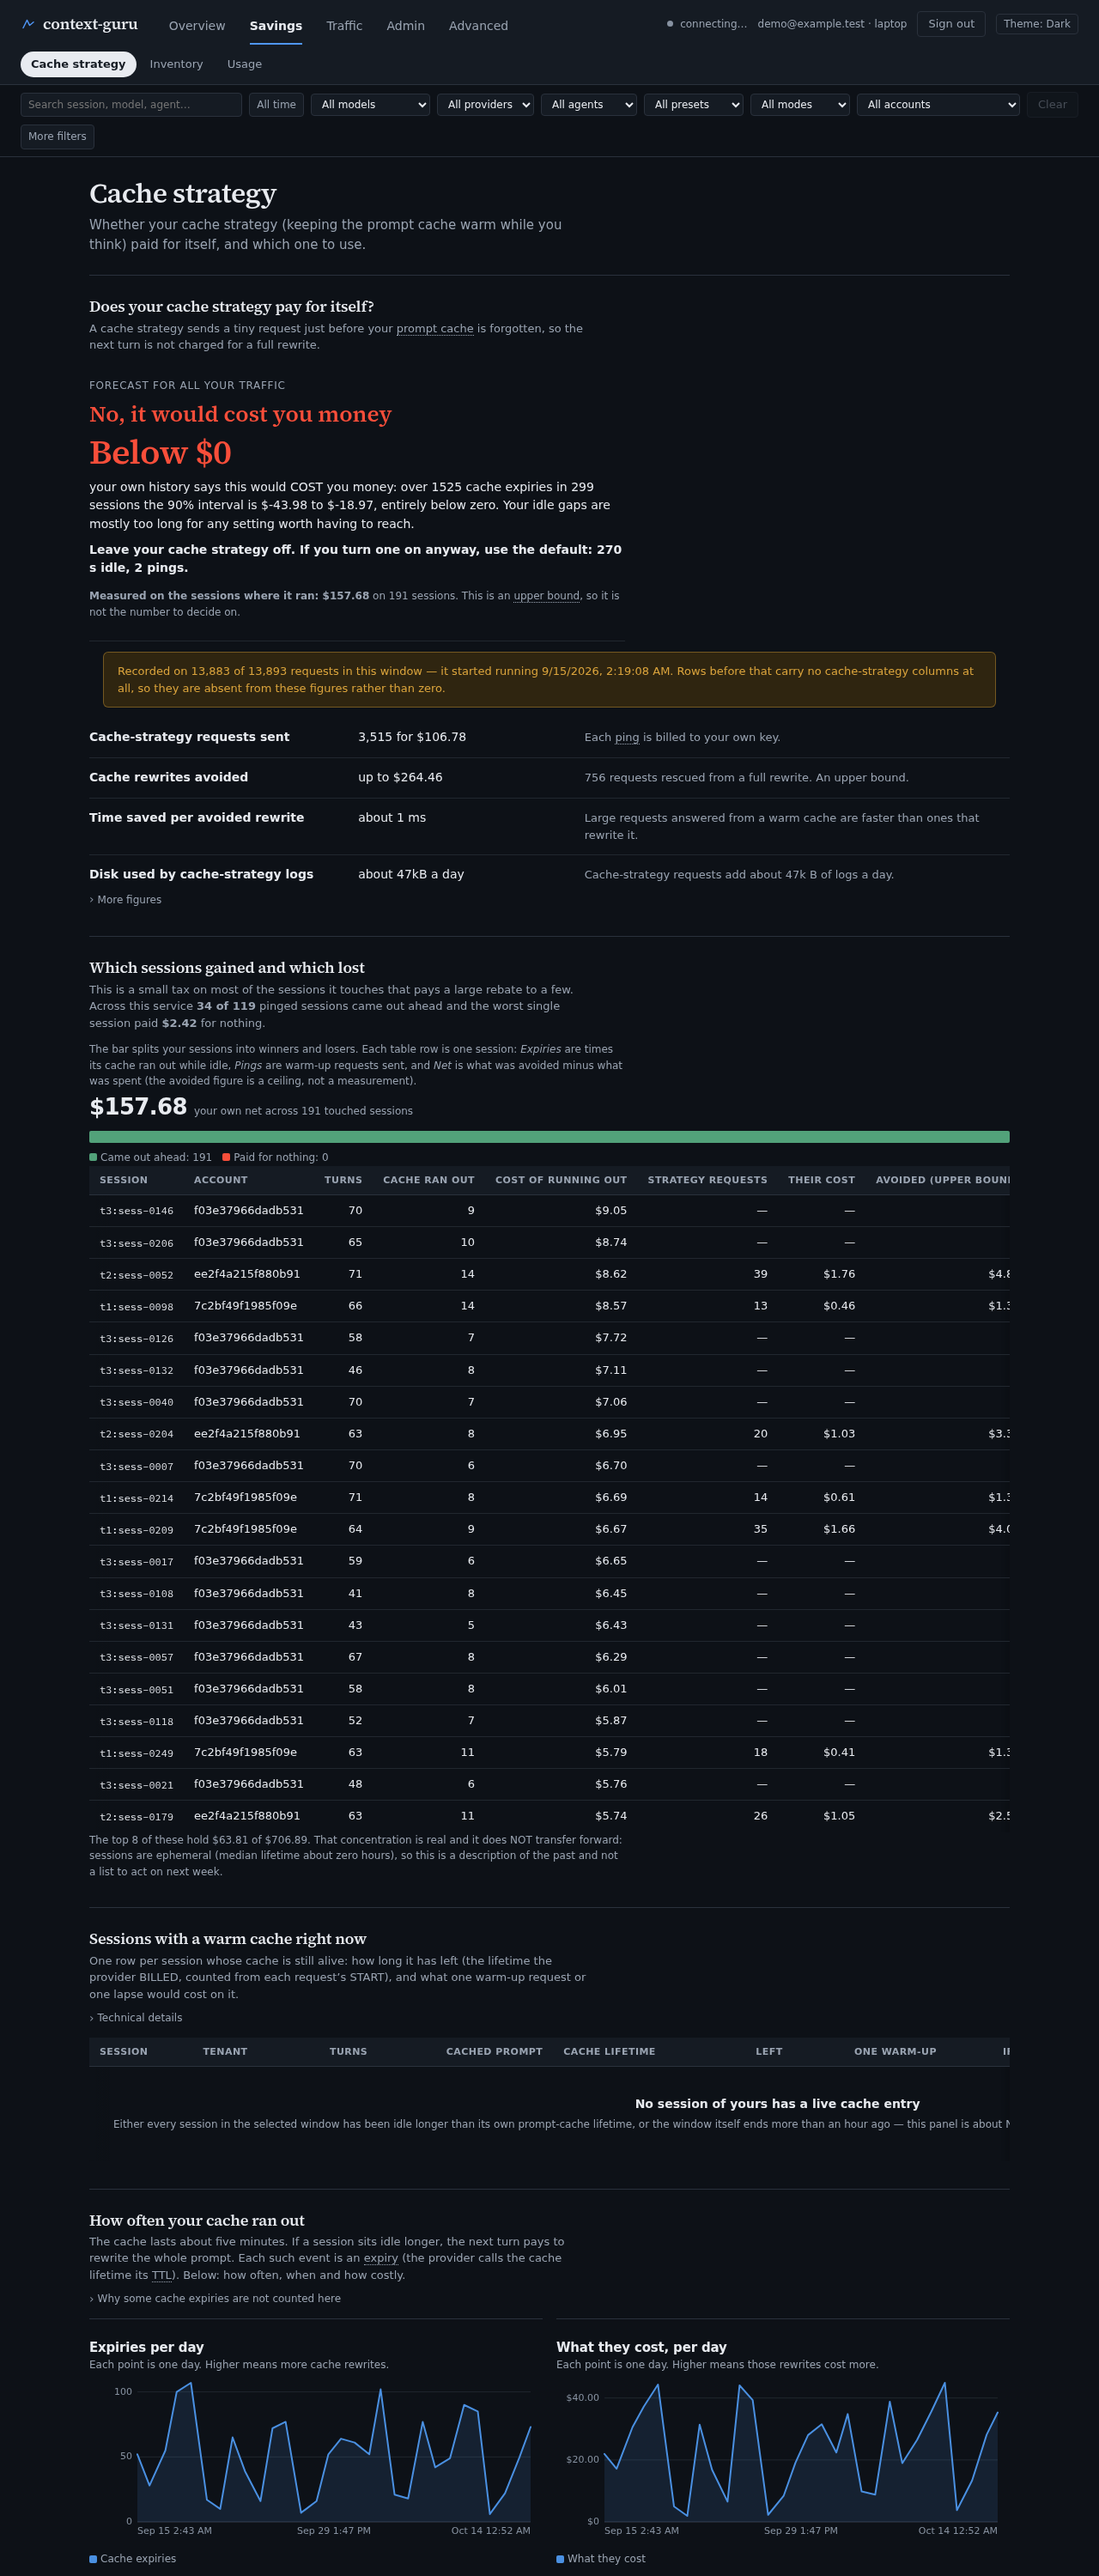
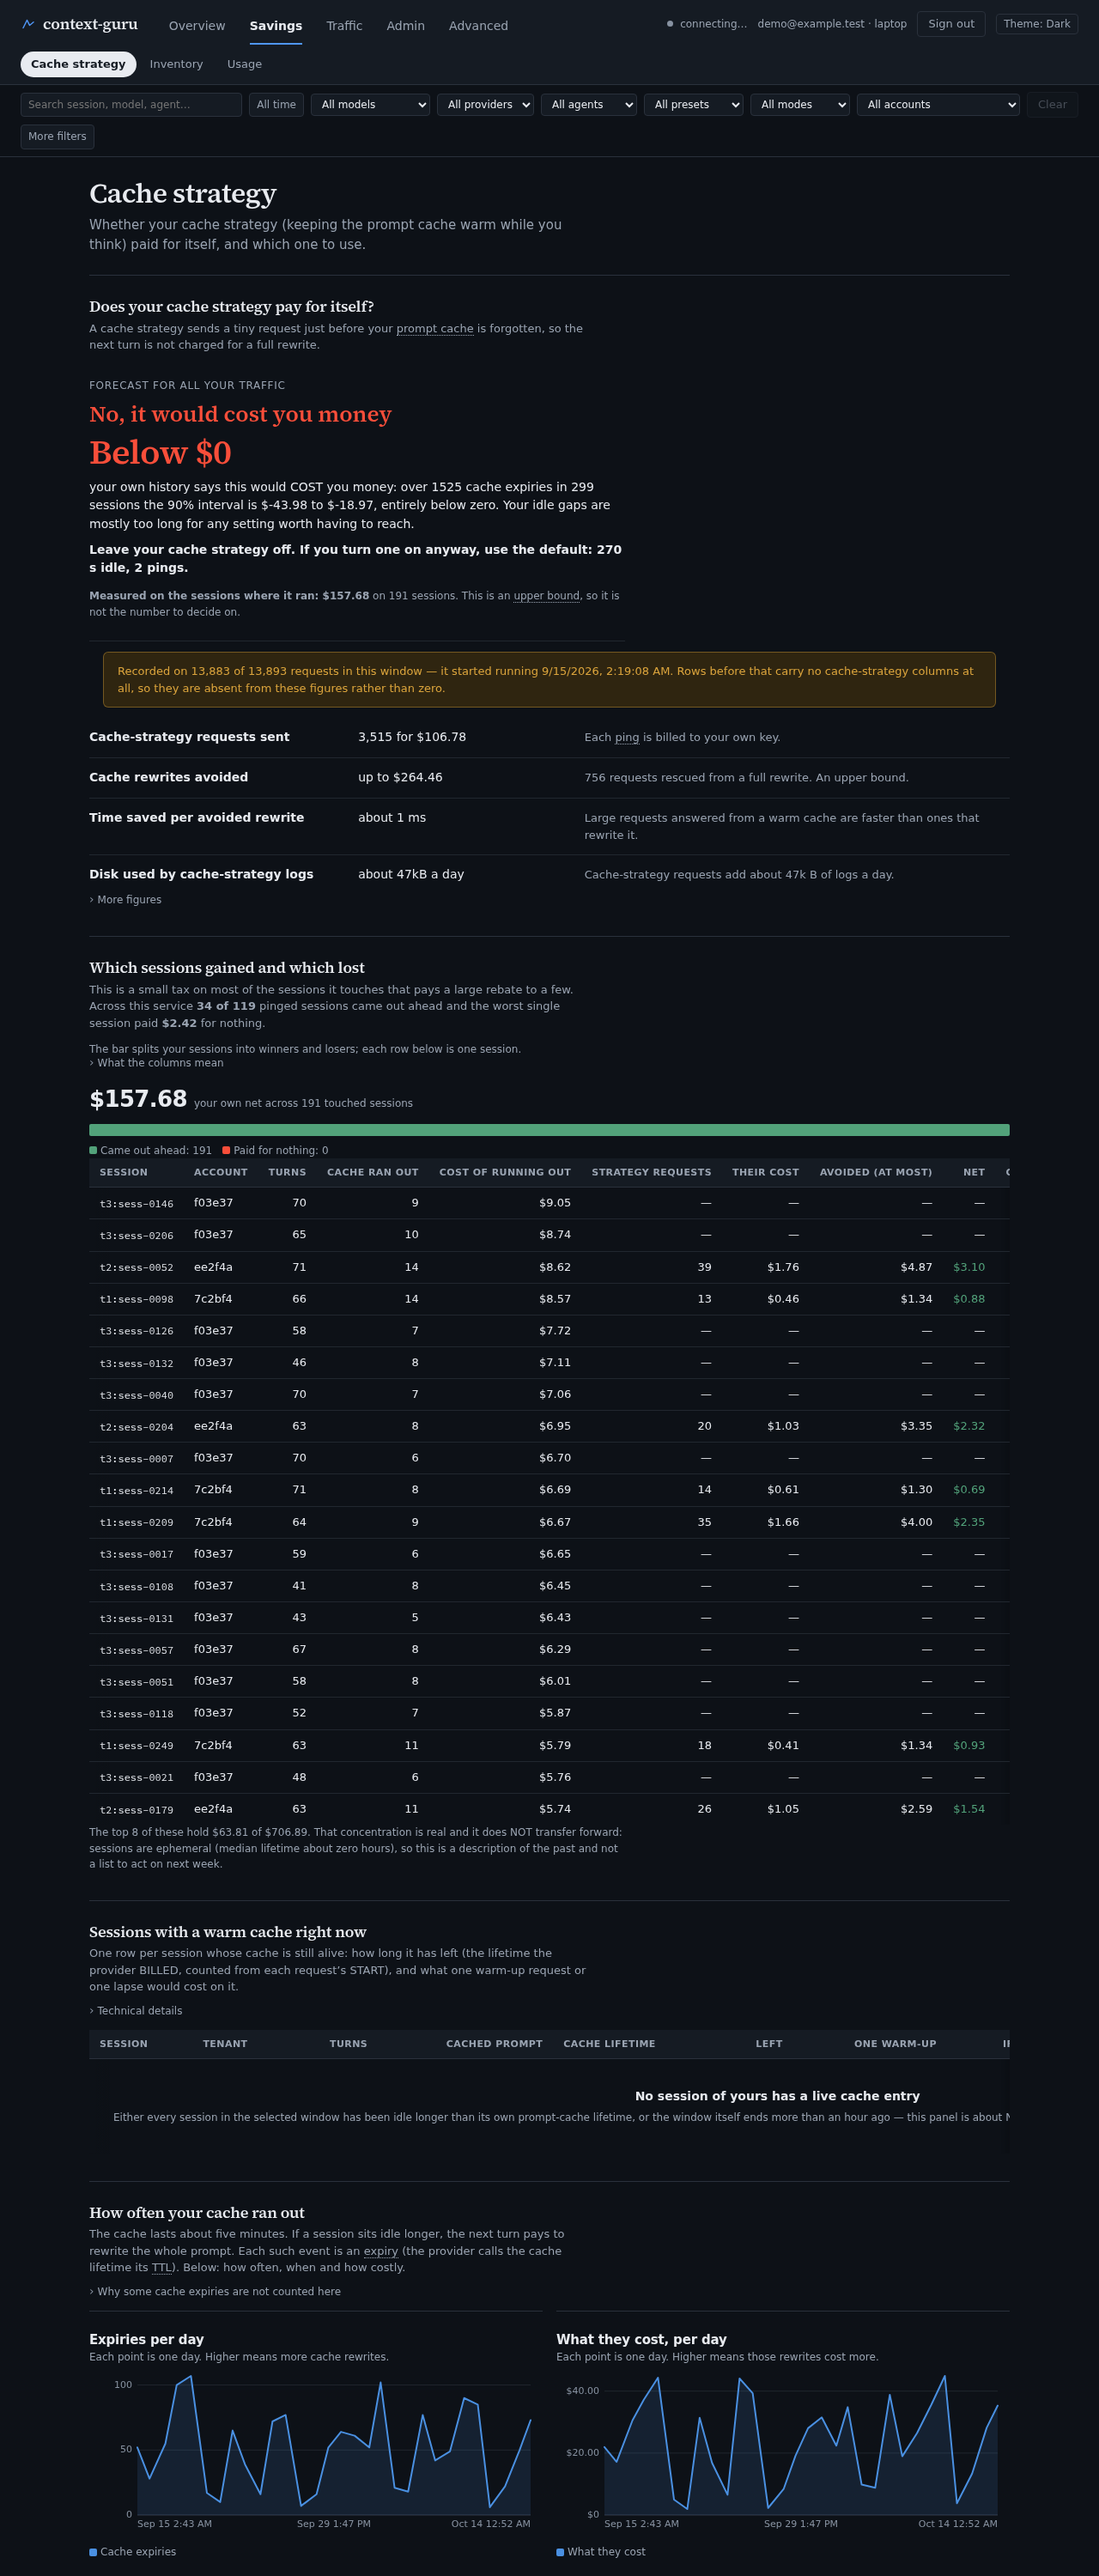
feat(dash): polish: only steps the build has, plain step names in Settings, styled date and file inputs, short account labels, shorter Cache strategy text; screenshots refreshed

diff --git a/dash/ui/app.js b/dash/ui/app.js
@@ -2123,6 +2123,12 @@ const STEP_INFO = {
   toolfilter: ['Tool list filter', 'drops tool definitions the agent is unlikely to use'],
   toolschema: ['Tool schema trimmer', 'shortens tool definitions'],
   toon: ['Compact data format', 'rewrites tabular JSON in a denser format'],
+  mask: ['Old-output hider', 'hides older tool output beyond a recent window'],
+  coref: ['Unused-output trimmer', 'cuts tool output that no later turn used'],
+  agentdiet: ['Trajectory trimmer', 'removes steps from the agent\'s history that no longer matter'],
+  readlifecycle: ['Stale file-read remover', 'removes file reads whose content no longer matches the file'],
+  smartcrush: ['JSON list shortener', 'keeps the first, last and error items of a long JSON list'],
+  cache_aware_summarizer: ['Cache-friendly summarizer', 'summarizes by appending to the conversation so the cached prompt is reused'],
   agent_compaction: ['Agent summary', "the agent's own summary of its earlier turns"],
 };
 function stepInfo(name) {
@@ -2475,22 +2481,15 @@ function renderUnpricedNote(components) {
   }
 }
 
-/** The fold for steps this page has no description for, kept next to the Preset steps table. */
-function renderUndescribedSteps(rows) {
-  const table = $('[data-testid=components-table]');
-  if (!table) return;
-  const wrap = table.closest('.tblwrap') || table;
-  let host = $('#components-undescribed');
-  if (!host) {
-    host = el('details', { class: 'why', id: 'components-undescribed', 'data-testid': 'components-undescribed' });
-    wrap.after(host);
+/** The names of the steps this build registers (GET /api/options), or null when that is not available. */
+async function currentSteps() {
+  if (state.currentSteps === undefined) {
+    try {
+      const o = await api('options');
+      state.currentSteps = Array.isArray(o.components) ? new Set(o.components.map((c) => (typeof c === 'string' ? c : c.name))) : null;
+    } catch (_) { state.currentSteps = null; }
   }
-  clear(host);
-  host.hidden = !rows.length;
-  if (!rows.length) return;
-  host.appendChild(el('summary', { text: 'Other steps in the history (' + rows.length + '), without a description here' }));
-  host.appendChild(el('ul', { class: 'plain-list' }, rows.map((c) => el('li', {},
-    el('strong', { text: String(c.component).replace(/_/g, ' ') }), ' ran ' + num(c.runs) + ' times and removed ' + compact(c.saved_unique) + ' tokens'))));
+  return state.currentSteps;
 }
 
 async function loadComponents() {
@@ -2501,12 +2500,10 @@ async function loadComponents() {
     // /api/components has no LIMIT — every component that ran in the window is in this
     // array — so sorting it here IS a global sort, not a sort of one page.
     const all = state.sort ? sortRows(raw, state.sort, state.dir) : raw;
-    // Steps the page can describe are listed; any other name in the history (a step that has since left the
-    // product, say) goes into a fold under the table so no recorded figure is dropped, and the table is not
-    // padded with rows nobody can explain.
-    const components = all.filter((c) => STEP_INFO[c.component]);
-    const undescribed = all.filter((c) => !STEP_INFO[c.component]);
-    renderUndescribedSteps(undescribed);
+    // Only steps this build has are listed. A name in the history that the build no longer registers (a step
+    // that has left the product) is not shown: the table describes what your preset can do today.
+    const current = await currentSteps();
+    const components = all.filter((c) => (current ? current.has(c.component) : !!STEP_INFO[c.component]) || c.component === 'agent_compaction');
     syncSortHeads('[data-testid=components-table]', COMPONENT_SORT);
     clear(body);
     if (!components.length) {
@@ -6388,7 +6385,8 @@ function loadSettings() {
         ? ' — calls a preset model on the request path (+117ms typical, up to ~945ms on file reads) and bills to the shared credential'
         : '';
       grid.appendChild(el('label', { class: 'comp', for: id }, cb,
-        el('span', { class: 'comp-name' }, name),
+        el('span', { class: 'comp-name', title: name }, stepInfo(name)[0]),
+        stepInfo(name)[1] ? el('span', { class: 'comp-job muted', text: ' — ' + stepInfo(name)[1] }) : null,
         warn ? el('span', { class: 'comp-warn' }, warn) : null));
     }
     if (mgr) host.appendChild(el('div', { class: 'field' },
@@ -6924,10 +6922,8 @@ function renderComponentFields(name, fields, values, disabled, ctx) {
     if (det.open) openComps.add(name); else openComps.delete(name);
   });
   det.appendChild(el('summary', {},
-    el('span', { class: 'comp-name' }, name),
-    el('span', { class: 'muted' },
-      ` — ${setCount} of ${fields.length} key${fields.length === 1 ? '' : 's'} set`
-      + (disabled ? ', read-only' : ''))));
+    el('span', { class: 'comp-name', title: name }, stepInfo(name)[0]),
+    el('span', { class: 'muted' }, setCount ? ` — ${setCount} of ${fields.length} setting${fields.length === 1 ? '' : 's'} changed` : '')));
   // Why it is locked, when the reason is this component rather than the whole page (an
   // inherited or unreadable configuration is stated once, above, not fourteen times).
   if (ctx && ctx.off) {
@@ -8974,7 +8970,7 @@ function renderKASessions() {
     const net = s.net_usd;
     body.appendChild(el('tr', {},
       el('td', {}, el('code', { class: 'clip', text: s.session_id })),
-      wide ? el('td', {}, s.tenant_id || '—') : el('td', { hidden: 'hidden' }),
+      wide ? el('td', {}, el('span', { title: s.tenant_id, text: s.tenant_id ? s.tenant_id.slice(0, 6) : '—' })) : el('td', { hidden: 'hidden' }),
       el('td', { class: 'num' }, num(s.turns)),
       el('td', { class: 'num' }, num(s.expiries)),
       el('td', { class: 'num' }, usd(s.expiry_usd)),

diff --git a/dash/ui/index.html b/dash/ui/index.html
@@ -652,9 +652,9 @@
       the sessions it touches that pays a large rebate to a few. Across this service
       <strong>34 of 119</strong> pinged sessions came out ahead and the worst single session
       paid <strong>$2.42</strong> for nothing.</p>
-    <p class="hint">The bar splits your sessions into winners and losers. Each table row is
-      one session: <em>Expiries</em> are times its cache ran out while idle, <em>Pings</em> are warm-up
-      requests sent, and <em>Net</em> is what was avoided minus what was spent (the avoided figure is a ceiling, not a measurement).</p>
+    <p class="hint">The bar splits your sessions into winners and losers; each row below is one session.</p>
+    <details class="why"><summary>What the columns mean</summary>
+      <p><em>Expiries</em> are times a session's cache ran out while idle. <em>Strategy requests</em> are the warm-up requests sent. <em>Net</em> is what was avoided minus what was spent; the avoided figure is a ceiling, not a measurement.</p></details>
     <div id="ka-split"></div>
     <div id="ka-worst"></div>
     <div class="tblwrap" tabindex="0">
@@ -663,7 +663,7 @@
           <th>Session</th><th data-scope-col hidden>Account</th><th class="num">Turns</th>
           <th class="num" title="Times the cached prompt was forgotten while the session sat idle">Cache ran out</th><th class="num" title="What those cache rewrites cost">Cost of running out</th>
           <th class="num" title="Requests your cache strategy sent to keep the cache warm">Strategy requests</th><th class="num" title="What those requests cost">Their cost</th>
-          <th class="num" title="The most your cache strategy could have saved; an upper bound">Avoided (upper bound)</th><th class="num">Net</th>
+          <th class="num" title="The most your cache strategy could have saved; an upper bound">Avoided (at most)</th><th class="num">Net</th>
           <th class="num" title="Size of the cached start of the conversation, in tokens">Cached prompt size</th><th><span class="vh">Row actions</span></th>
         </tr></thead>
         <tbody id="ka-sessions-body"></tbody>

diff --git a/dash/ui/style.css b/dash/ui/style.css
@@ -1812,3 +1812,16 @@ details.inv-details > summary { font-family: var(--serif); font-size: 17px; font
 
 .lv-id { font-weight: 400; color: var(--fg-muted); font-size: 14px; }
 .ledger-total strong.bound { color: var(--warn); }
+
+/* ═══ form controls ═══ */
+input[type="date"], input[type="datetime-local"], input[type="time"], input[type="file"], input[type="number"] {
+  font: inherit; font-size: 13px; color: var(--fg); background: var(--bg-raised);
+  border: 1px solid var(--border); border-radius: var(--r); padding: 5px var(--sp-2); min-height: 32px;
+}
+input[type="date"]:hover, input[type="datetime-local"]:hover, input[type="time"]:hover, input[type="number"]:hover { border-color: var(--fg-faint); }
+input[type="file"]::file-selector-button {
+  font: inherit; font-size: 13px; color: var(--fg); background: var(--bg-sunken);
+  border: 1px solid var(--border); border-radius: var(--r-sm); padding: 3px var(--sp-3); margin-right: var(--sp-3); cursor: pointer;
+}
+input[type="file"]::file-selector-button:hover { border-color: var(--fg-faint); }
+.comp-job { font-size: 12.5px; }
